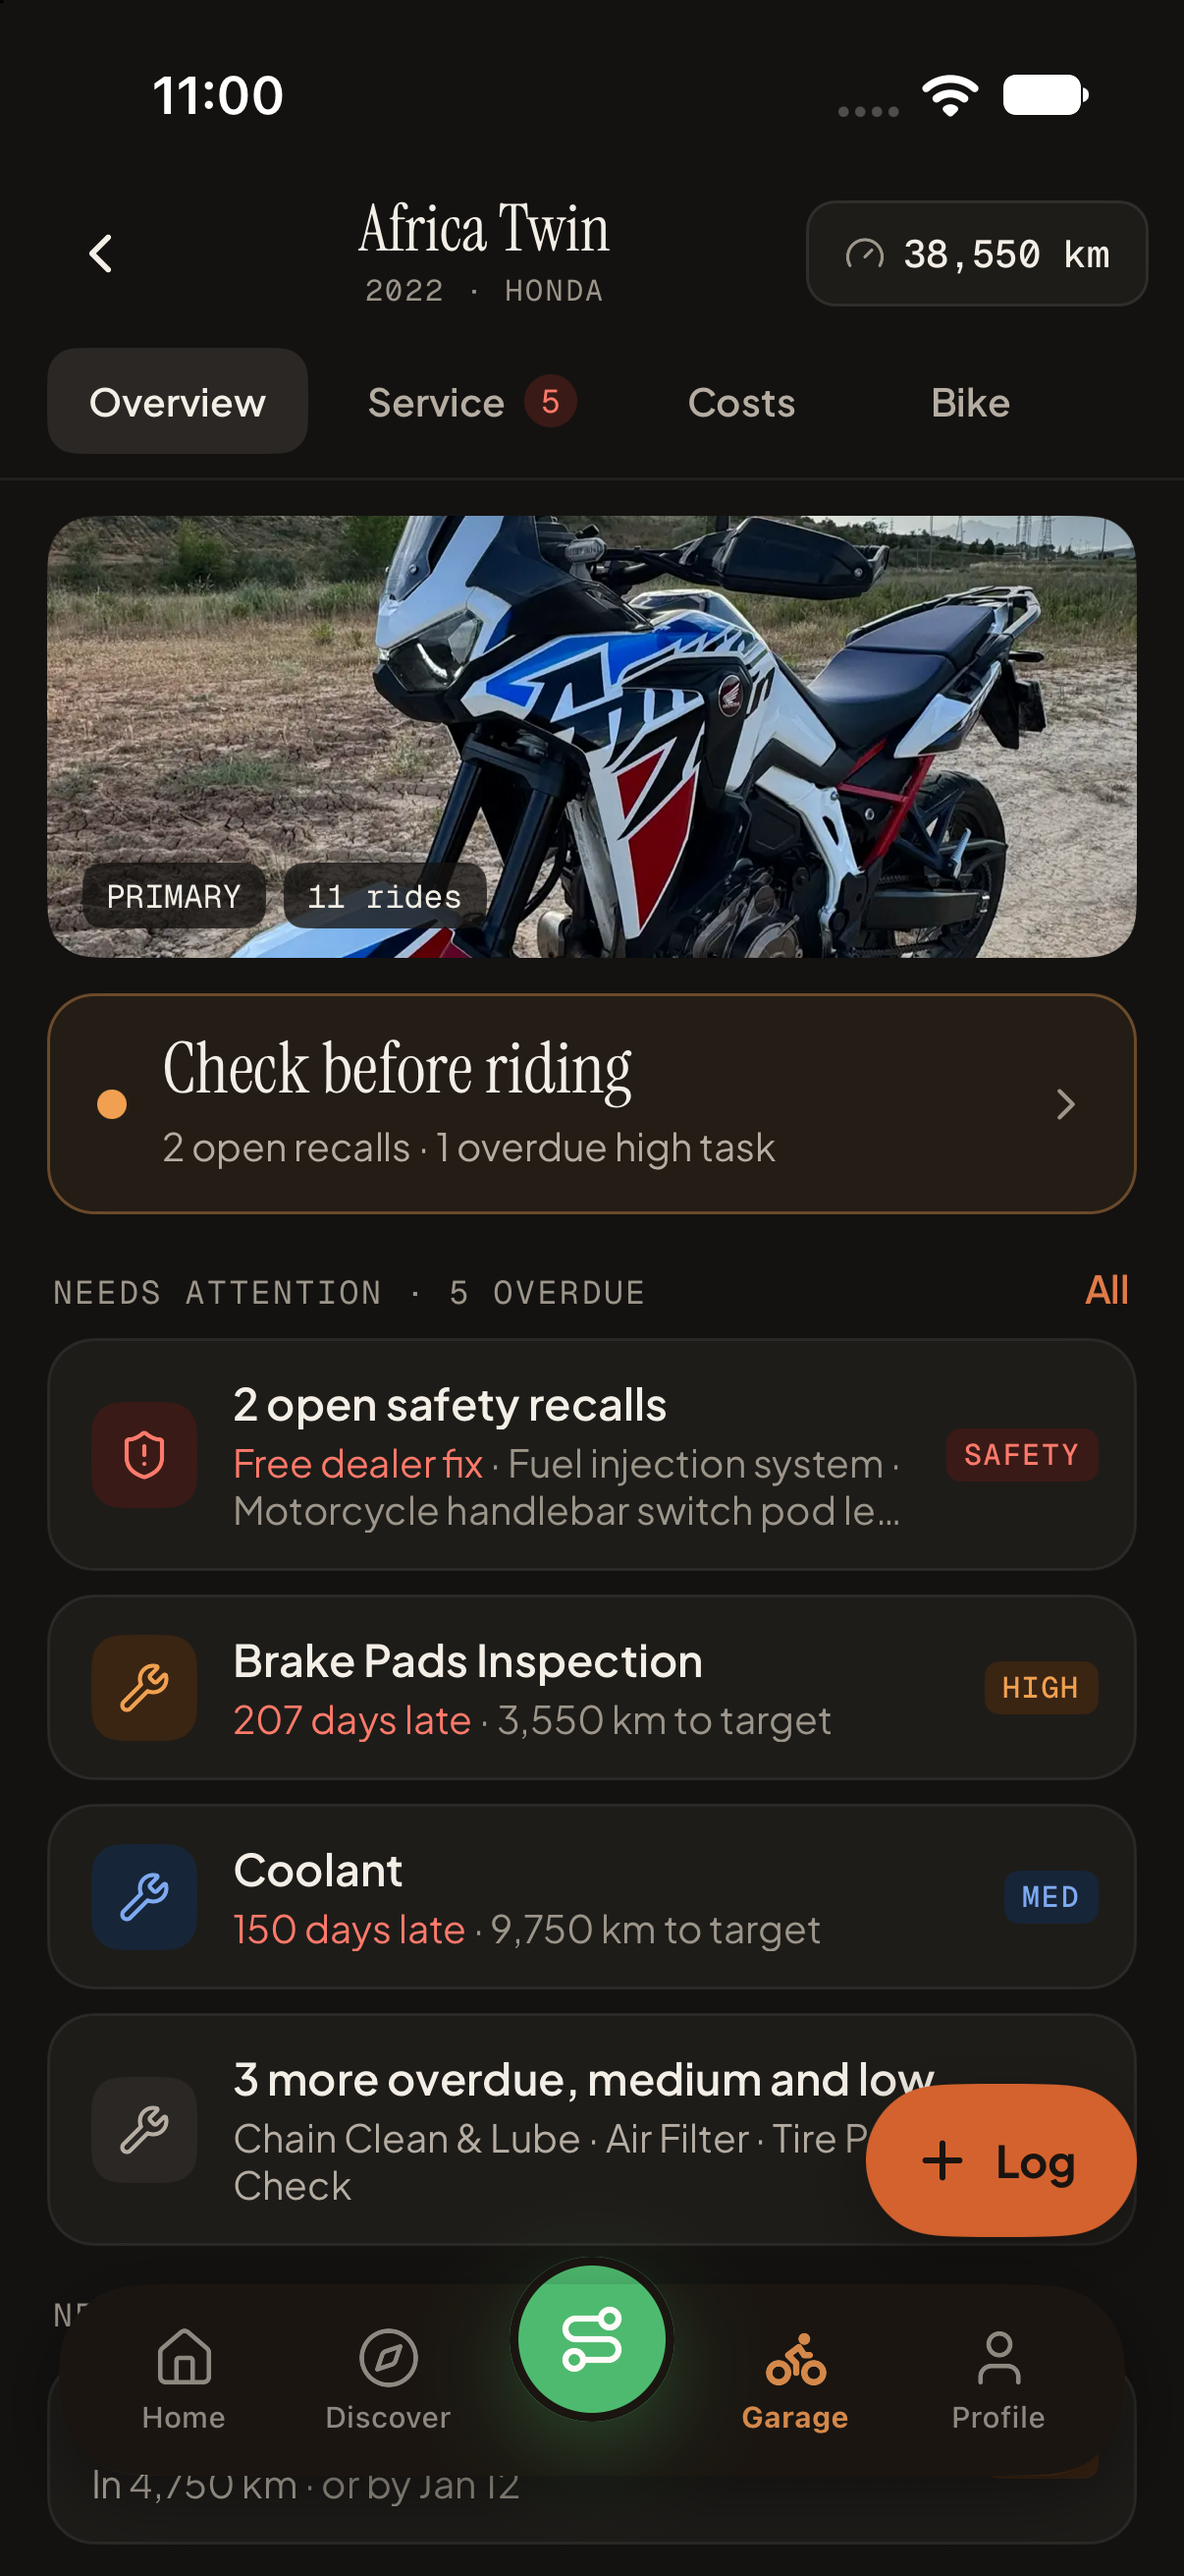
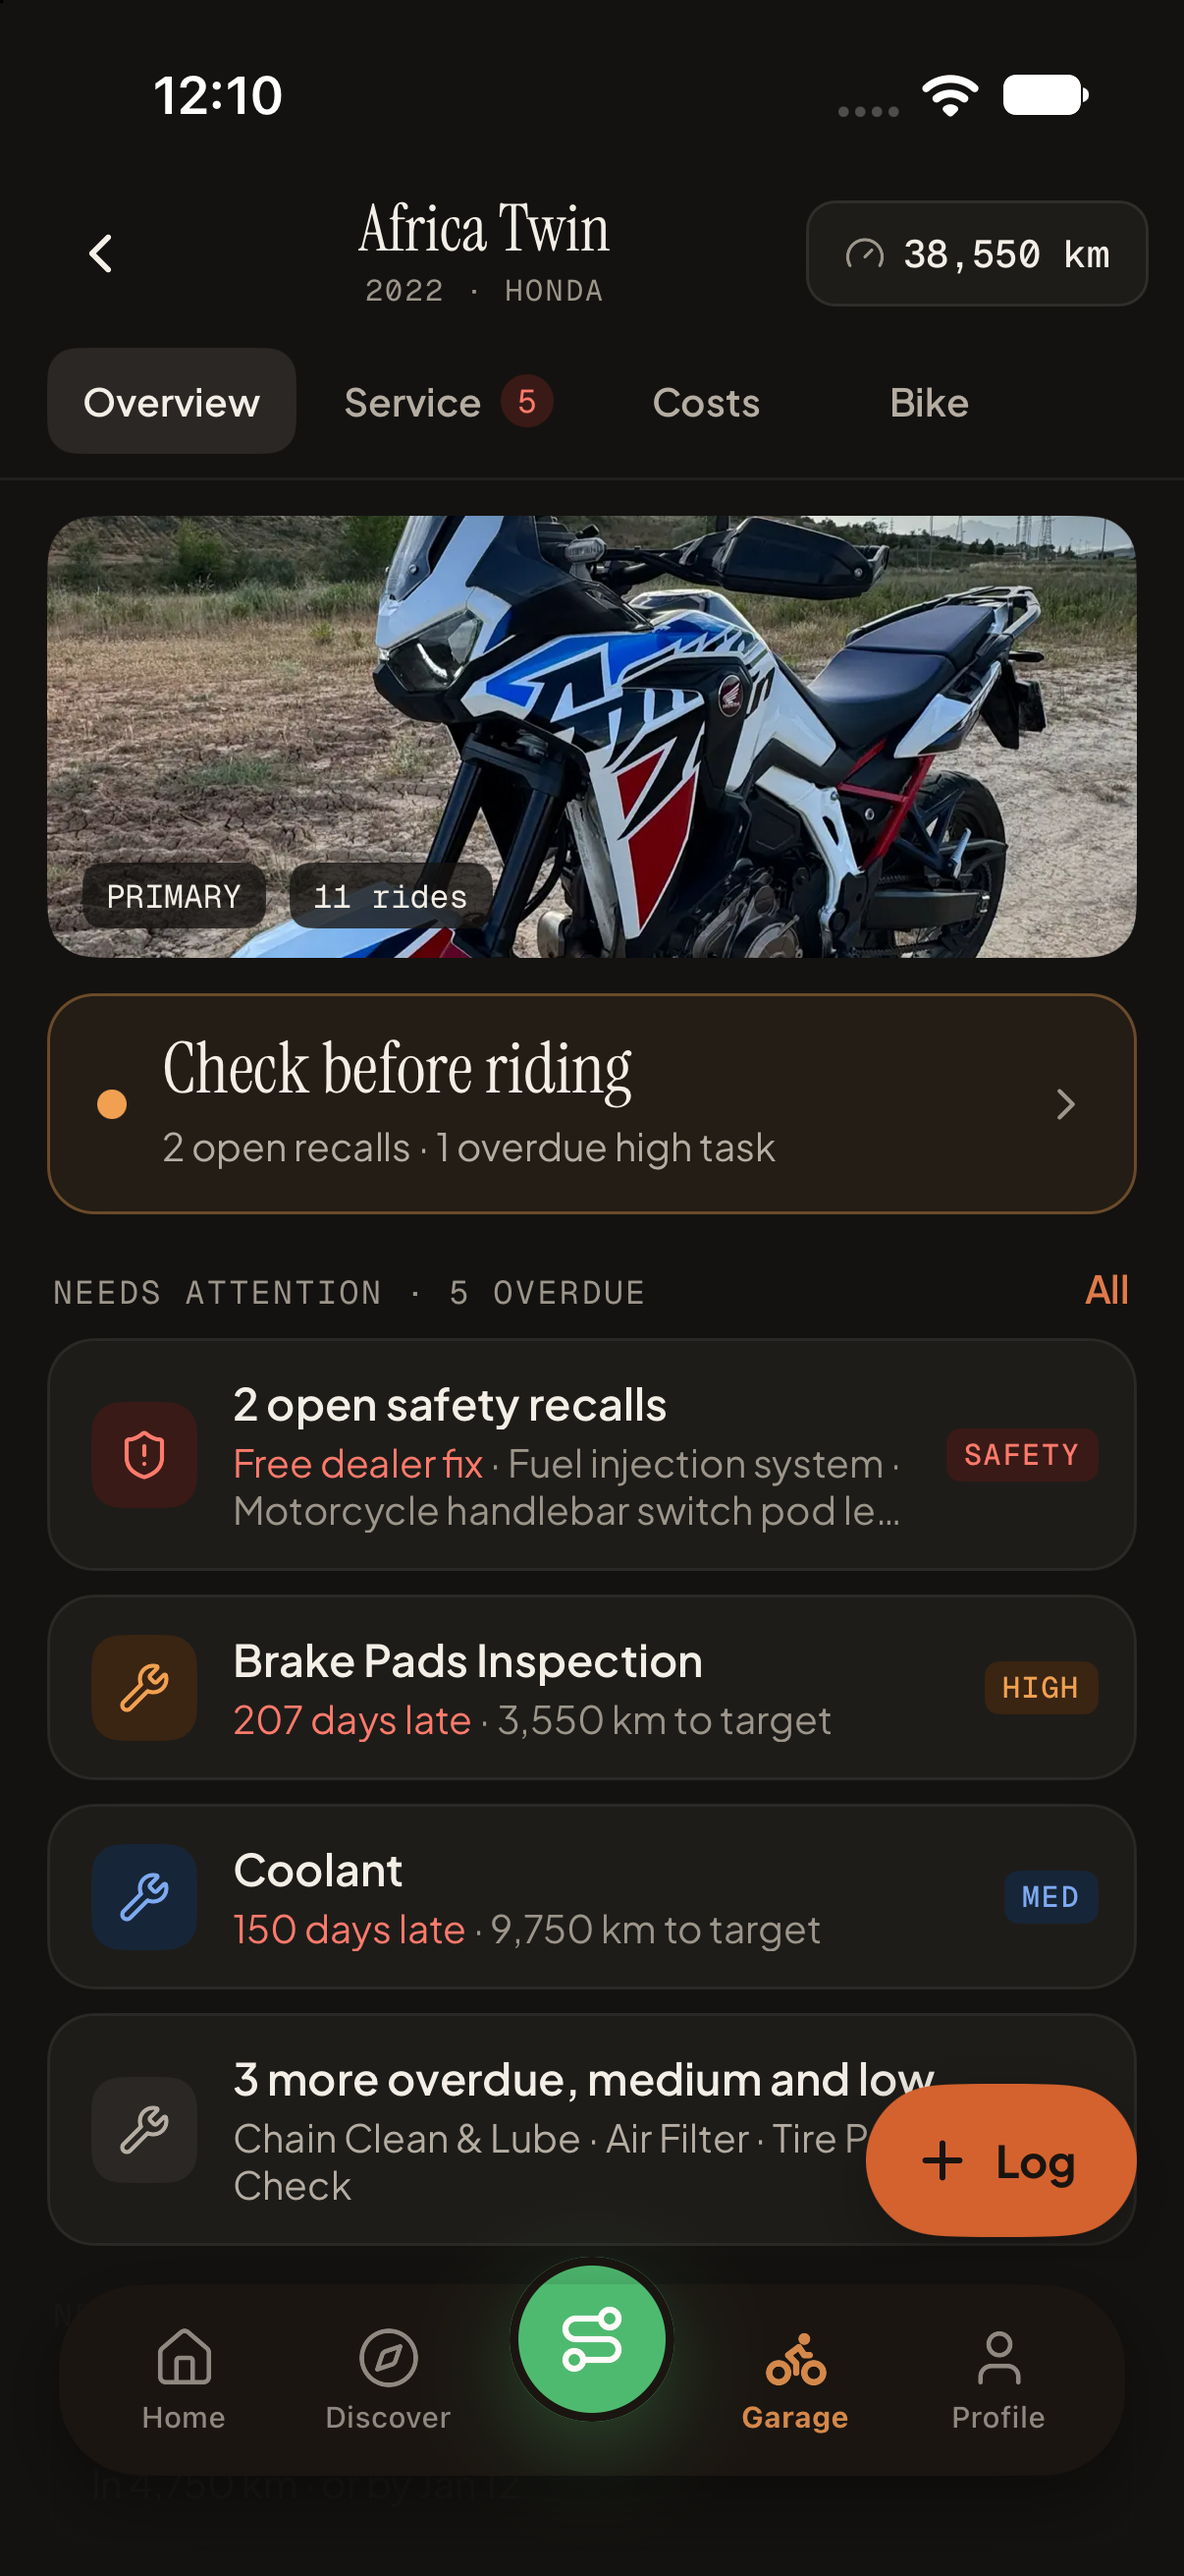
fix(bike-hub): fully opaque dock behind the tab bar; refreshed after screenshots
The dock used hub.tabBar (surfaceDark at 0.96), so list rows showed through
faintly below the island. It now uses the solid hub ground. After captures
retaken on the rebuilt Release app (touch leak, stuck-sheet loop and large
text verified on the iOS simulator).

diff --git a/apps/mobile/src/app/(tabs)/_layout.tsx b/apps/mobile/src/app/(tabs)/_layout.tsx
@@ -180,7 +180,7 @@ function HubDock() {
         right: 0,
         bottom: 0,
         height: tabBarBottomOffset(insets.bottom) + height + HUB_DOCK_OVERHANG,
-        backgroundColor: hub.tabBar,
+        backgroundColor: hub.ground,
       }}
     />
   );
